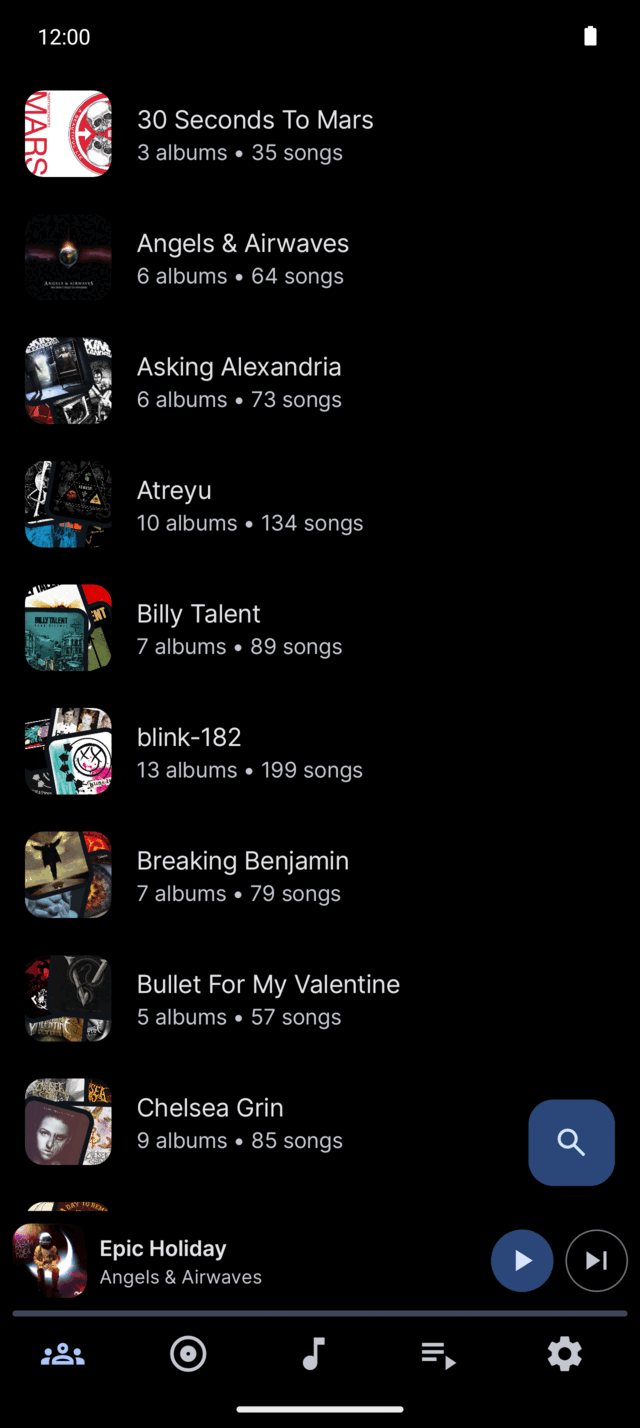
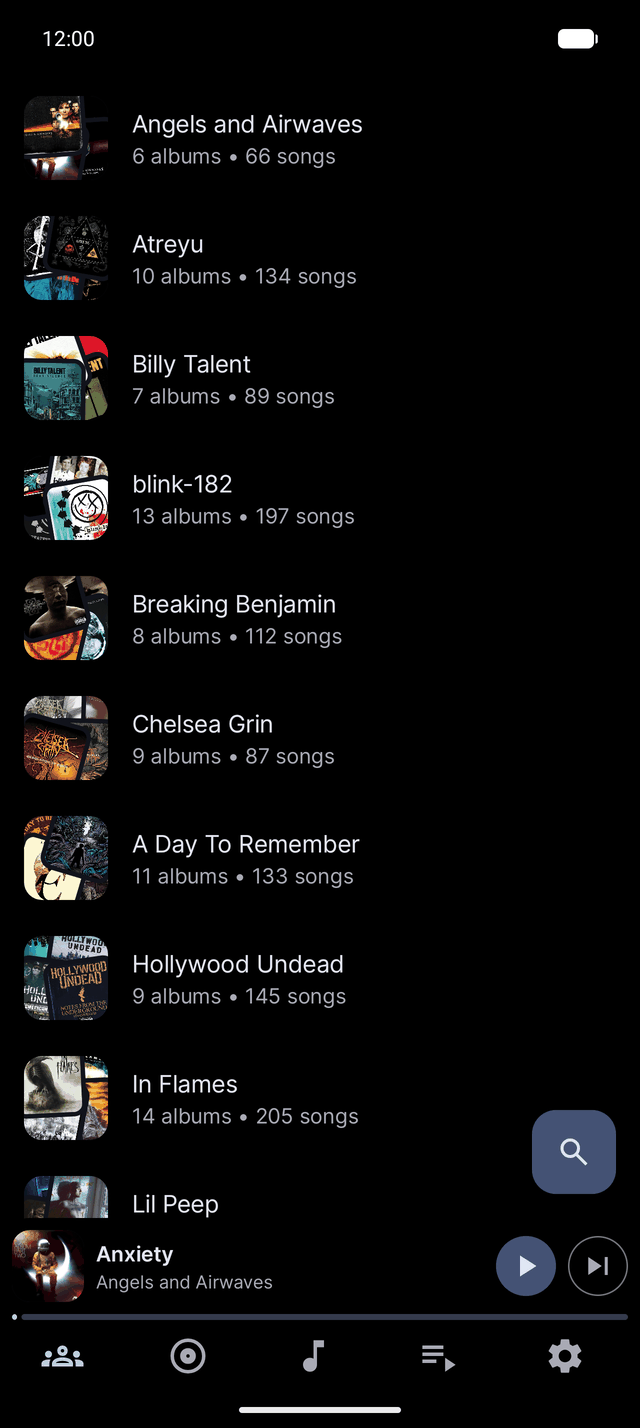
README screenshots from the updated library, with yearly and all-time review
Claude-Session: https://claude.ai/code/session_01ABfcgA5MnTm2hepXFEQQrJ

diff --git a/README.md b/README.md
@@ -54,7 +54,7 @@ timer** and **tag editing**.
 - **Faster loading:** the library loads about 2.5 to 3 times faster than in Auxio (the name preparation was the
   bottleneck), with the same result.
 - **Musicolet import:** weekly and monthly "Most played songs" files land in their week or month. Their days are only
-  estimated, so they count for totals and weeks, not for days listened (marked with ≈ where it matters).
+  estimated, so they count for totals and weeks, not for days listened (their first and last play are marked with ≈).
 - **Artist visibility:** Library settings can hide song-only artists or secondary album artists, crediting albums and songs to the first album artist.
 - **Short and square screens:** a compact player, totals in the stats title row and a lower album
   header, so more fits on short screens. The Communicator device check failed and needs investigation.
@@ -96,7 +96,8 @@ Black theme on a Pixel 9 sized emulator, with a made up library and listening hi
 
 <table>
 <tr><td align="center" width="20%"><img src="docs/screenshots/08-sleep-timer.png" alt="Sleep timer"><br><sub>Sleep timer</sub></td><td align="center" width="20%"><img src="docs/screenshots/02-player.png" alt="Now playing"><br><sub>Now playing</sub></td><td align="center" width="20%"><img src="docs/screenshots/01-home.png" alt="Home"><br><sub>Home</sub></td><td align="center" width="20%"><img src="docs/screenshots/03-queue.png" alt="Queue"><br><sub>Queue</sub></td><td align="center" width="20%"><img src="docs/screenshots/04-album.png" alt="Album"><br><sub>Album</sub></td></tr>
-<tr><td align="center" width="20%"><img src="docs/screenshots/05-stats.png" alt="Stats"><br><sub>Stats</sub></td><td align="center" width="20%"><img src="docs/screenshots/06-stats-item.png" alt="Artist stats"><br><sub>Artist stats</sub></td><td align="center" width="20%"><img src="docs/screenshots/07-share-card.png" alt="Share card"><br><sub>Share card</sub></td><td align="center" width="20%"><img src="docs/screenshots/09-backup.png" alt="Backup"><br><sub>Backup</sub></td><td align="center" width="20%"><img src="docs/screenshots/10-search.png" alt="Search"><br><sub>Search</sub></td></tr>
+<tr><td align="center" width="20%"><img src="docs/screenshots/10-search.png" alt="Search"><br><sub>Search</sub></td><td align="center" width="20%"><img src="docs/screenshots/09-backup.png" alt="Backup"><br><sub>Backup</sub></td><td align="center" width="20%"><img src="docs/screenshots/05-stats.png" alt="Stats"><br><sub>Stats</sub></td><td align="center" width="20%"><img src="docs/screenshots/06-stats-item.png" alt="Song stats"><br><sub>Song stats</sub></td><td align="center" width="20%"><img src="docs/screenshots/07-share-card.png" alt="Share card"><br><sub>Share card</sub></td></tr>
+<tr><td align="center" width="20%"><img src="docs/screenshots/11-review-year-clock.png" alt="Yearly review: clock"><br><sub>Yearly review: clock</sub></td><td align="center" width="20%"><img src="docs/screenshots/12-review-year-summary.png" alt="Yearly review: summary"><br><sub>Yearly review: summary</sub></td><td align="center" width="20%"><img src="docs/screenshots/13-review-all-time.png" alt="All-time review"><br><sub>All-time review</sub></td><td align="center" width="20%"><img src="docs/screenshots/14-review-all-time-years.png" alt="All-time review: years"><br><sub>All-time review: years</sub></td><td align="center" width="20%"><img src="docs/screenshots/15-review-all-time-summary.png" alt="All-time review: summary"><br><sub>All-time review: summary</sub></td></tr>
 </table>
 
 ## Building

diff --git a/ROADMAP.md b/ROADMAP.md
@@ -73,7 +73,7 @@ The user checked these on the Clicks Communicator and they did not work; details
 - Default tab order Artists, Albums, Songs, Playlists, no Genres tab; no three-dot buttons on list rows (long press opens the item menu); black theme for menus, dialogs, sheets and bars; popup menus have 16dp rounded corners in every theme
 - Icon: Crescent and Sparkle, and a minimal white outline icon switchable in Settings > Appearance
 - About page with Noxio links, the Auxio credit and fork notice; store listing (fastlane) with a Noxio description in English and German, new screenshots and feature graphic, Auxio's changelogs and other languages removed
-- README screenshots of what differs from Auxio, retaken for the backup, the stats with imported plays and the sleep timer in the play controls
+- README screenshots of what differs from Auxio, retaken for the backup, the stats with imported plays and the sleep timer in the play controls; retaken from the updated example library, with the yearly and all-time review added
 - German translation of everything Noxio added
 - Unit tests for the Noxio logic, coverage badge, CI (format, Android lint, tests), build caching, signed releases with an ARM64 APK
 
